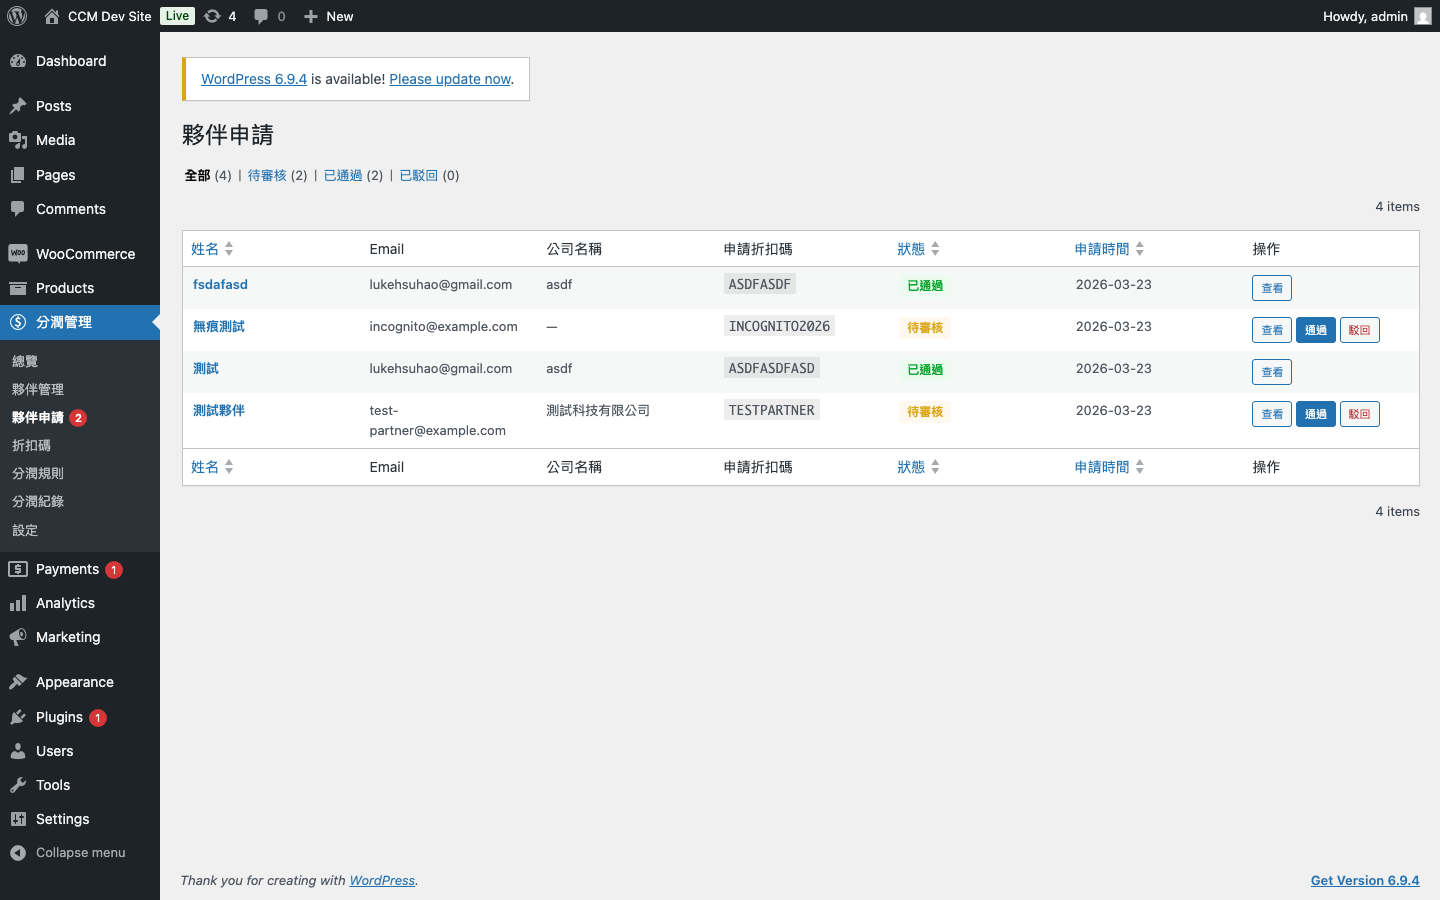
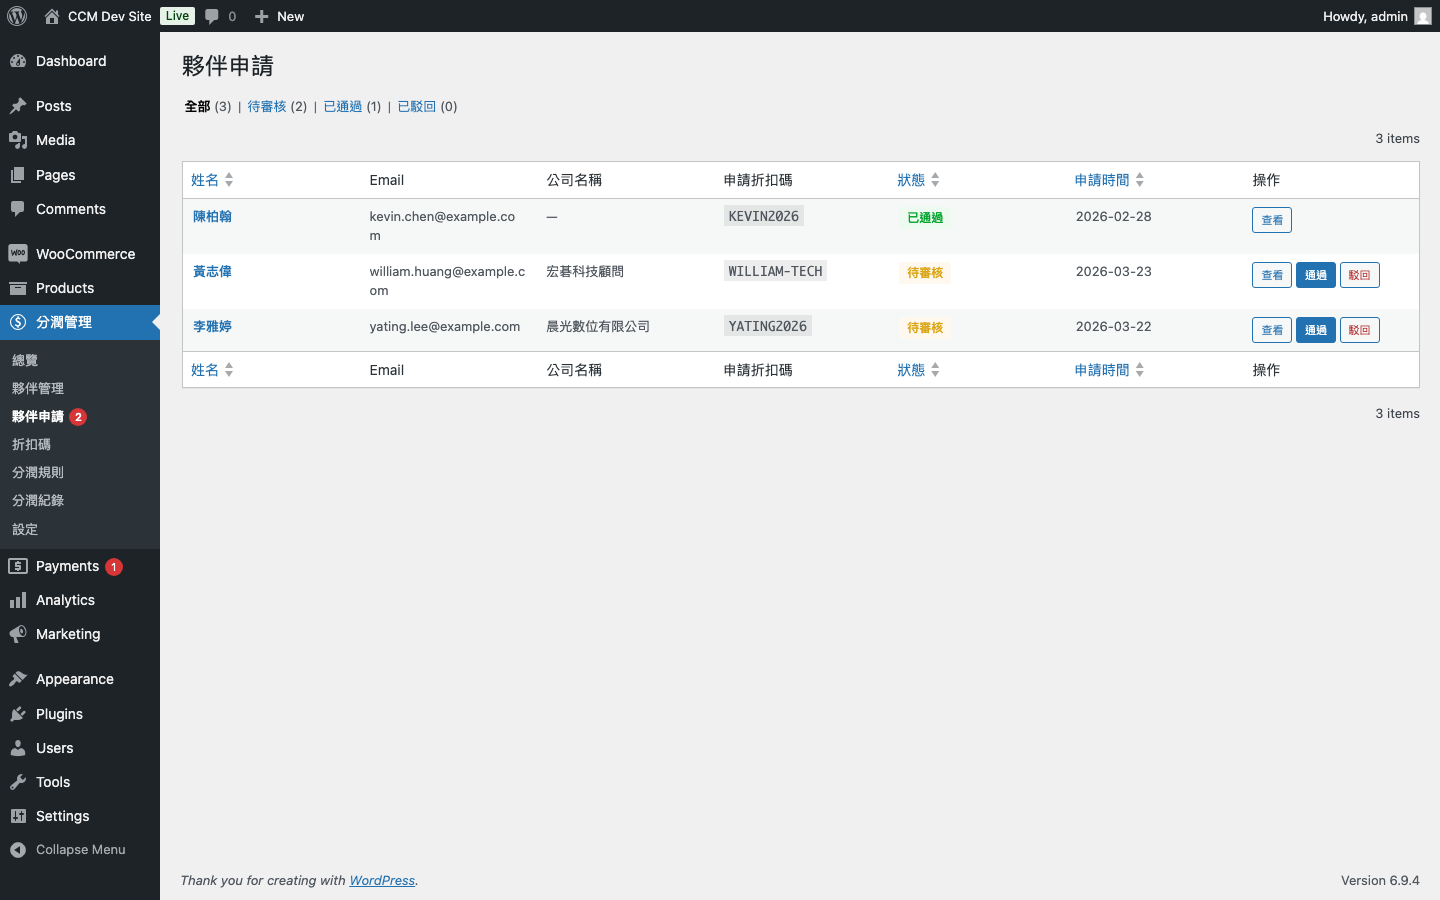
docs: retake all screenshots with clean demo data
- Replace personal email with example data
- Use realistic demo names (陳柏翰/林怡君/張家豪) and products
- Black submit button, reduced height
- Settings page shows example redirect URL
- WordPress updated, no update nag in screenshots

diff --git a/assets/css/ccm-frontend.css b/assets/css/ccm-frontend.css
@@ -148,10 +148,10 @@
 }
 
 .ccm-form-submit button {
-    background: #2563eb;
+    background: #111;
     color: #fff;
     border: none;
-    padding: 14px 48px;
+    padding: 10px 48px;
     font-size: 16px;
     border-radius: 10px;
     cursor: pointer;
